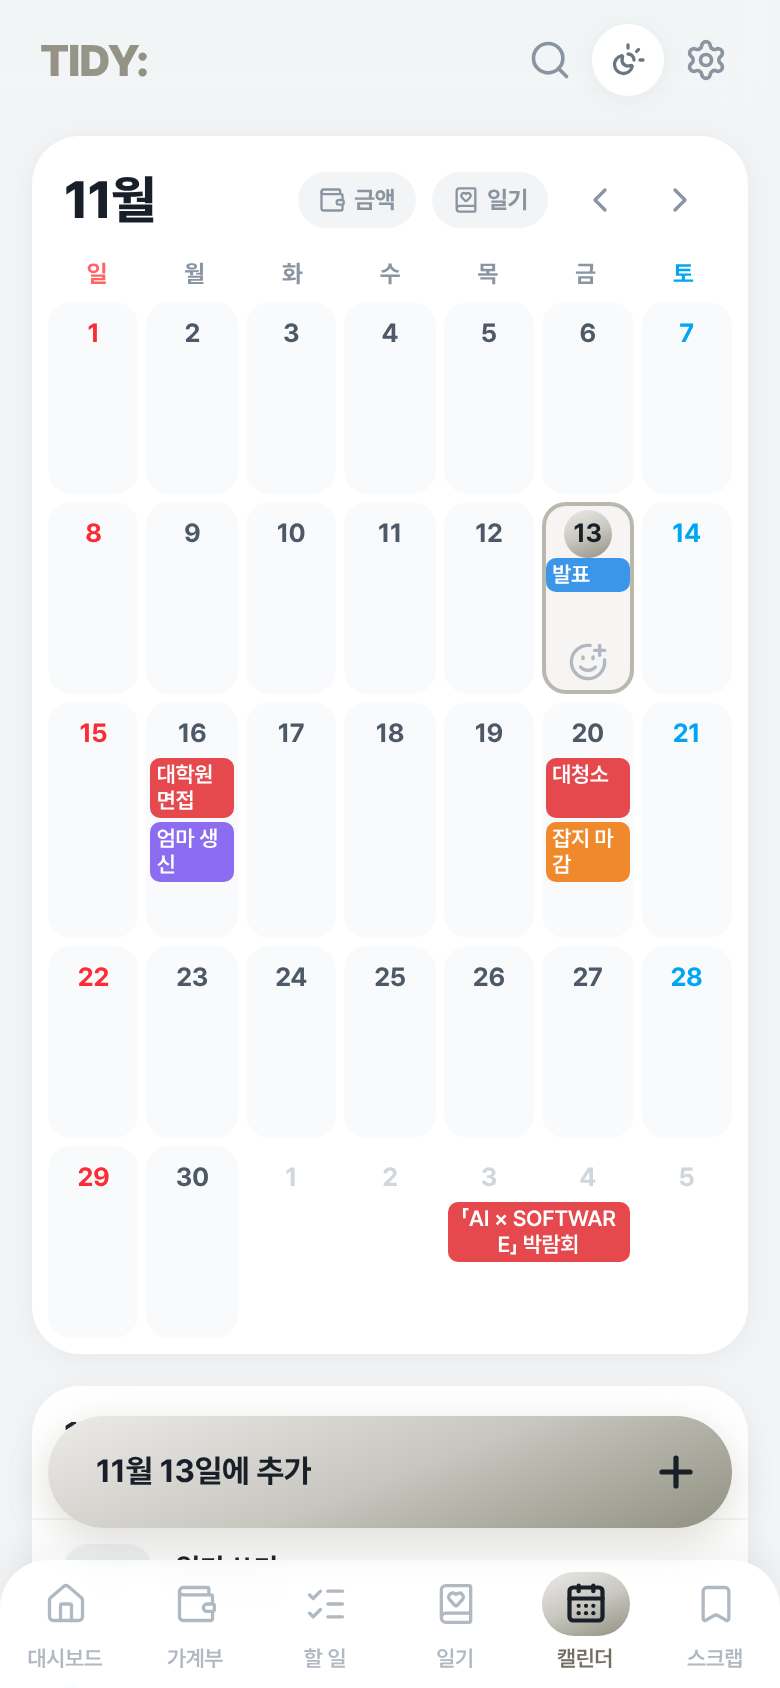
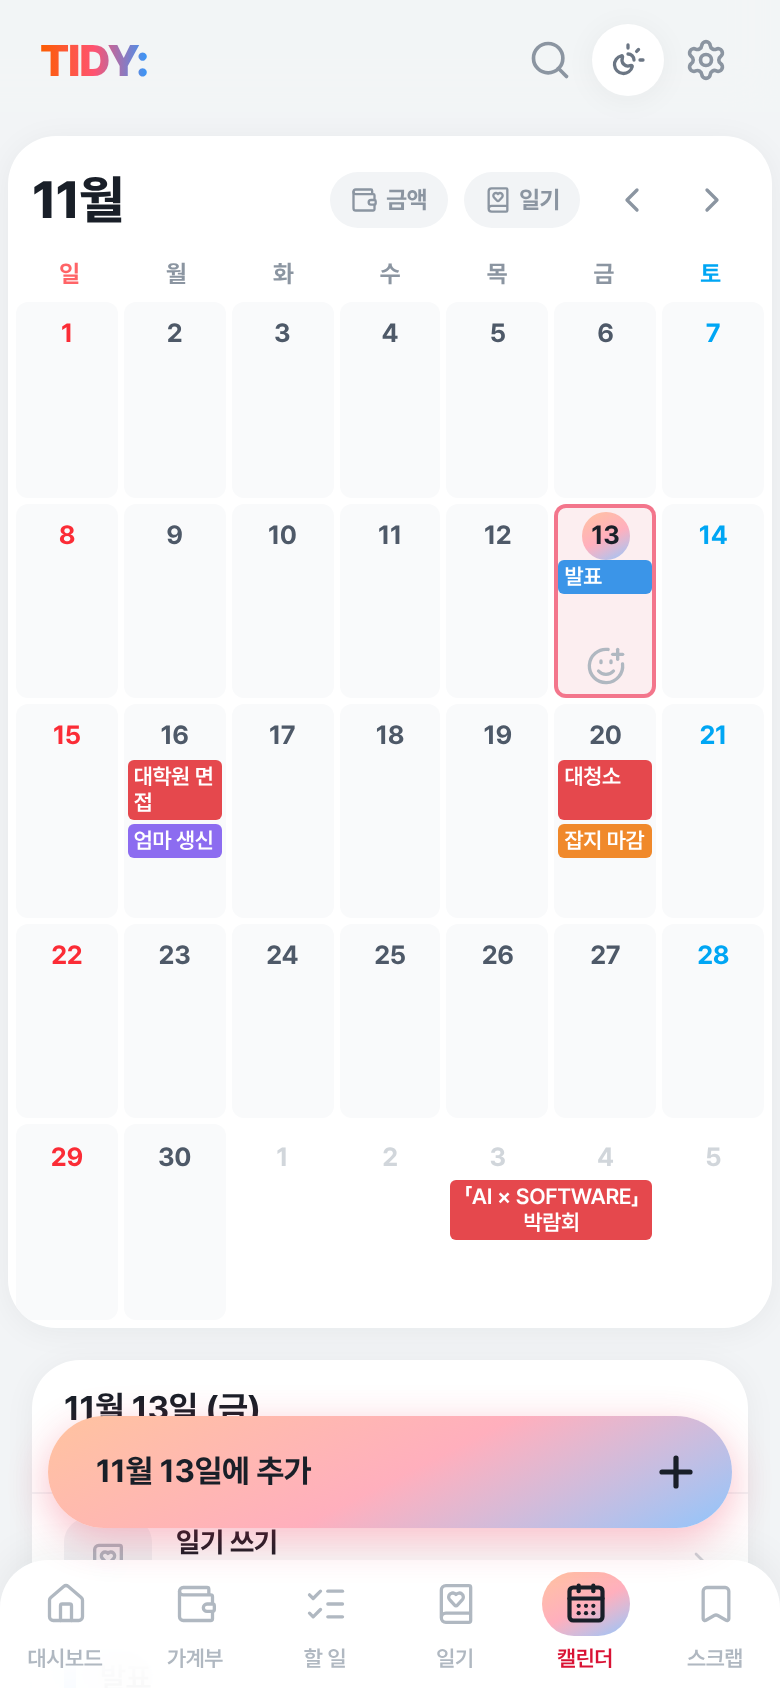
캘린더 칸 넓게: 카드 여백·칸 사이 줄이고 모서리 덜 둥글게
Claude-Session: https://claude.ai/code/session_01Ji86QuC2nGbrXTx8vAzBpp

diff --git a/src/pages/CalendarPage.tsx b/src/pages/CalendarPage.tsx
@@ -194,7 +194,7 @@ export default function CalendarPage() {
       <div className="grid gap-4 lg:grid-cols-[minmax(0,1.6fr)_minmax(0,1fr)] lg:items-start">
         <section
           // 달력이 한 화면을 꽉 채우게: 위 머리 줄과 아래 추가 버튼·메뉴를 뺀 높이 (사용자 요청 2026-11-13)
-          className="card flex min-h-[calc(100dvh-15.5rem-env(safe-area-inset-bottom))] flex-col overflow-hidden p-2 sm:p-4 md:min-h-[calc(100dvh-10rem)]"
+          className="card flex min-h-[calc(100dvh-15.5rem-env(safe-area-inset-bottom))] flex-col -mx-3 overflow-hidden px-1 pt-2 pb-1 sm:mx-0 sm:p-4 md:min-h-[calc(100dvh-10rem)]"
           aria-label={`${y}년 ${m}월 캘린더`}
           onTouchStart={(e) => (touchX.current = e.touches[0].clientX)}
           onTouchEnd={onTouchEnd}
@@ -251,13 +251,13 @@ export default function CalendarPage() {
           </div>
 
           {diaryView && <DiaryMonth grid={grid} month={month} today={today} selected={selected} diaries={diaries} onPick={pick} onOpen={setViewing} />}
-          <div role="grid" className={`flex flex-1 flex-col gap-1 ${diaryView ? 'hidden' : ''}`}>
+          <div role="grid" className={`flex flex-1 flex-col gap-[3px] ${diaryView ? 'hidden' : ''}`}>
             {weeks.map((week) => (
               <div
                 key={week.days[0]}
                 role="row"
                 // 줄마다 높이가 글자 길이에 맞게 늘어난다 (일정 이름이 세 줄까지 보이게, 사용자 요청 2026-11-13)
-                className="grid min-h-[96px] flex-[1_0_auto] grid-cols-7 gap-x-1 sm:min-h-[110px]"
+                className="grid min-h-[96px] flex-[1_0_auto] grid-cols-7 gap-x-[3px] sm:min-h-[110px]"
                 style={{ gridTemplateRows: `28px repeat(${week.lanes}, auto) minmax(26px, 1fr)` }}
               >
                 {week.days.map((d, c) => {
@@ -282,7 +282,7 @@ export default function CalendarPage() {
                         setEditor({ mode: 'add' })
                       }}
                       style={{ gridColumn: c + 1, gridRow: '1 / -1' }}
-                      className={`relative flex cursor-pointer flex-col items-center overflow-hidden rounded-xl pt-1 transition-colors select-none ${
+                      className={`relative flex cursor-pointer flex-col items-center overflow-hidden rounded-md pt-1 transition-colors select-none ${
                         isSel ? 'bg-brand-50 ring-2 ring-brand-500/60 ring-inset' : inMonth ? 'bg-slate-50' : ''
                       }`}
                     >
@@ -536,13 +536,13 @@ function readDiaryView(): boolean {
 /** 막대 하나. 날짜 숫자 아래 줄(lane)에 놓이고, 이름이 길면 세 줄까지 줄바꿈한다 */
 function BarView({ bar, dim }: { bar: Bar; dim: boolean }) {
   const style = { gridColumn: `${bar.col + 1} / span ${bar.span}`, gridRow: bar.lane + 2 }
-  const round = `${bar.fromPrev ? 'rounded-l-none' : 'rounded-l-[5px]'} ${bar.toNext ? 'rounded-r-none' : 'rounded-r-[5px]'}`
+  const round = `${bar.fromPrev ? 'rounded-l-none' : 'rounded-l-[3px]'} ${bar.toNext ? 'rounded-r-none' : 'rounded-r-[3px]'}`
   const text = 'line-clamp-3 break-all text-[11px] leading-[13px] sm:text-xs sm:leading-[15px]'
   if (bar.kind === 'todo') {
     const done = bar.todo?.isCompleted === 1
     return (
       <div
-        className={`pointer-events-none relative mx-0.5 mb-[2px] flex items-start gap-0.5 overflow-hidden rounded-[5px] bg-white py-[2px] pr-0.5 pl-[3px] font-medium text-slate-700 shadow-[inset_0_0_0_1px_var(--color-slate-200)] ${dim ? 'opacity-50' : ''}`}
+        className={`pointer-events-none relative mx-0.5 mb-[2px] flex items-start gap-0.5 overflow-hidden rounded-[3px] bg-white py-[2px] pr-0.5 pl-[3px] font-medium text-slate-700 shadow-[inset_0_0_0_1px_var(--color-slate-200)] ${dim ? 'opacity-50' : ''}`}
         style={style}
         aria-hidden
       >
